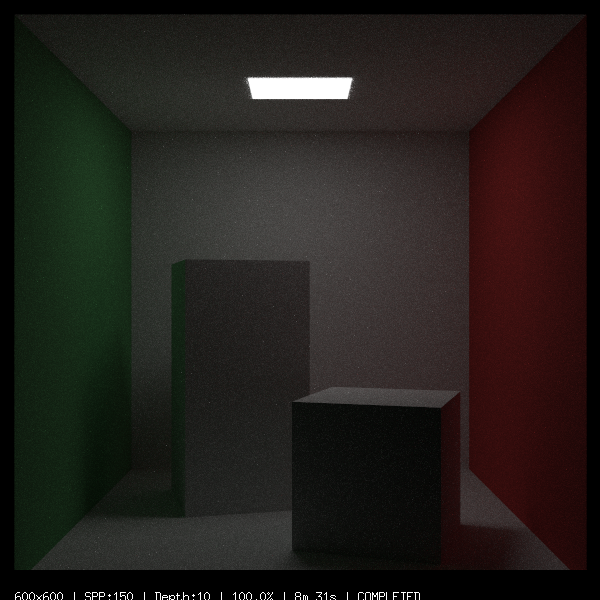
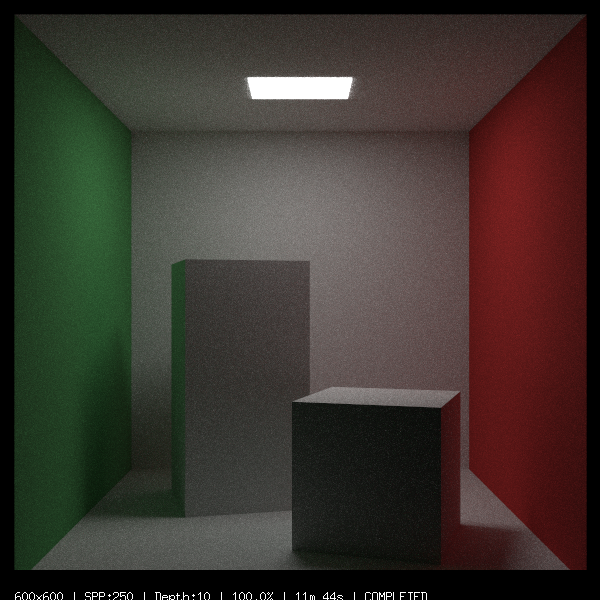
increased lighting amount to 3 from 1

diff --git a/rt/scenes.go b/rt/scenes.go
@@ -414,7 +414,7 @@ func CornellBoxScene() (*HittableList, *Camera) {
 	whiteMat := NewLambertian(Color{X: 0.73, Y: 0.73, Z: 0.73})
 	redMat := NewLambertian(Color{X: 0.65, Y: 0.05, Z: 0.05})
 	greenMat := NewLambertian(Color{X: 0.12, Y: 0.45, Z: 0.15})
-	lightMat := NewDiffuseLight(NewSolidColor(Color{X: 1, Y: 1, Z: 1}))
+	lightMat := NewDiffuseLight(NewSolidColor(Color{X: 3, Y: 3, Z: 3}))
 
 	areaLight := NewQuad(
 		Point3{X: 213, Y: 554, Z: 227},
@@ -489,7 +489,7 @@ func CornellBoxScene() (*HittableList, *Camera) {
 
 	camera := NewCameraBuilder().
 		SetResolution(600, 1.0).
-		SetQuality(150, 10).
+		SetQuality(250, 10).
 		SetPosition(
 			Point3{X: 278, Y: 278, Z: -800},
 			Point3{X: 278, Y: 278, Z: 0},
